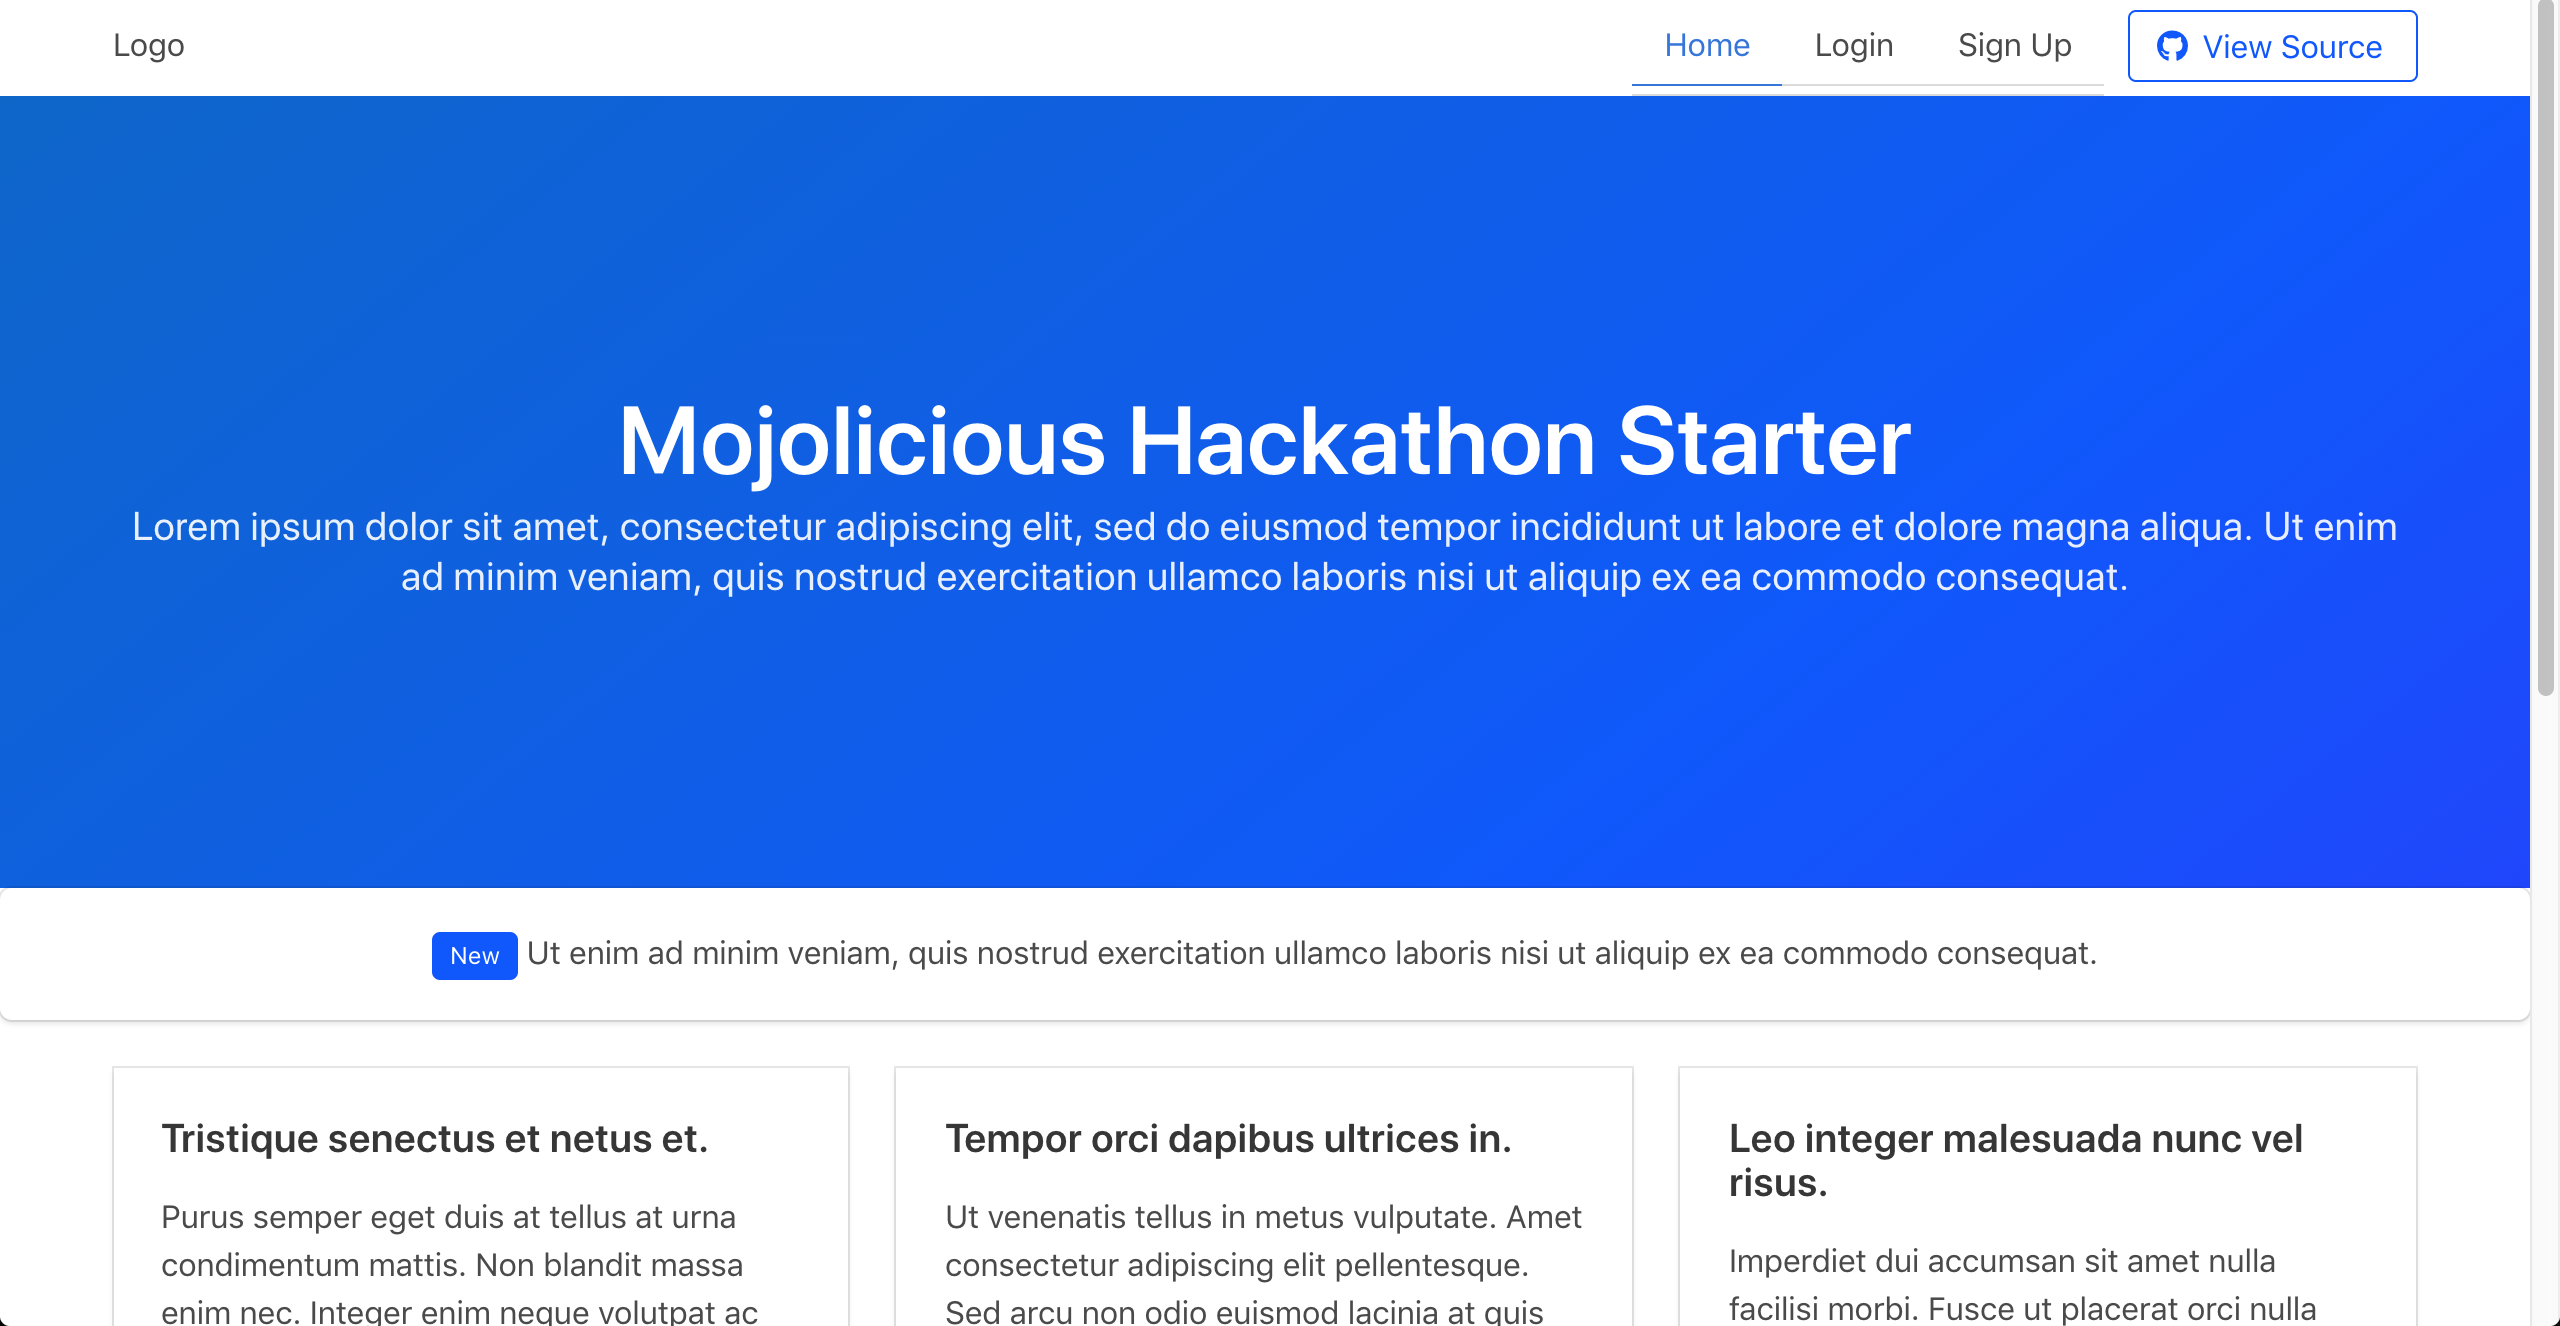
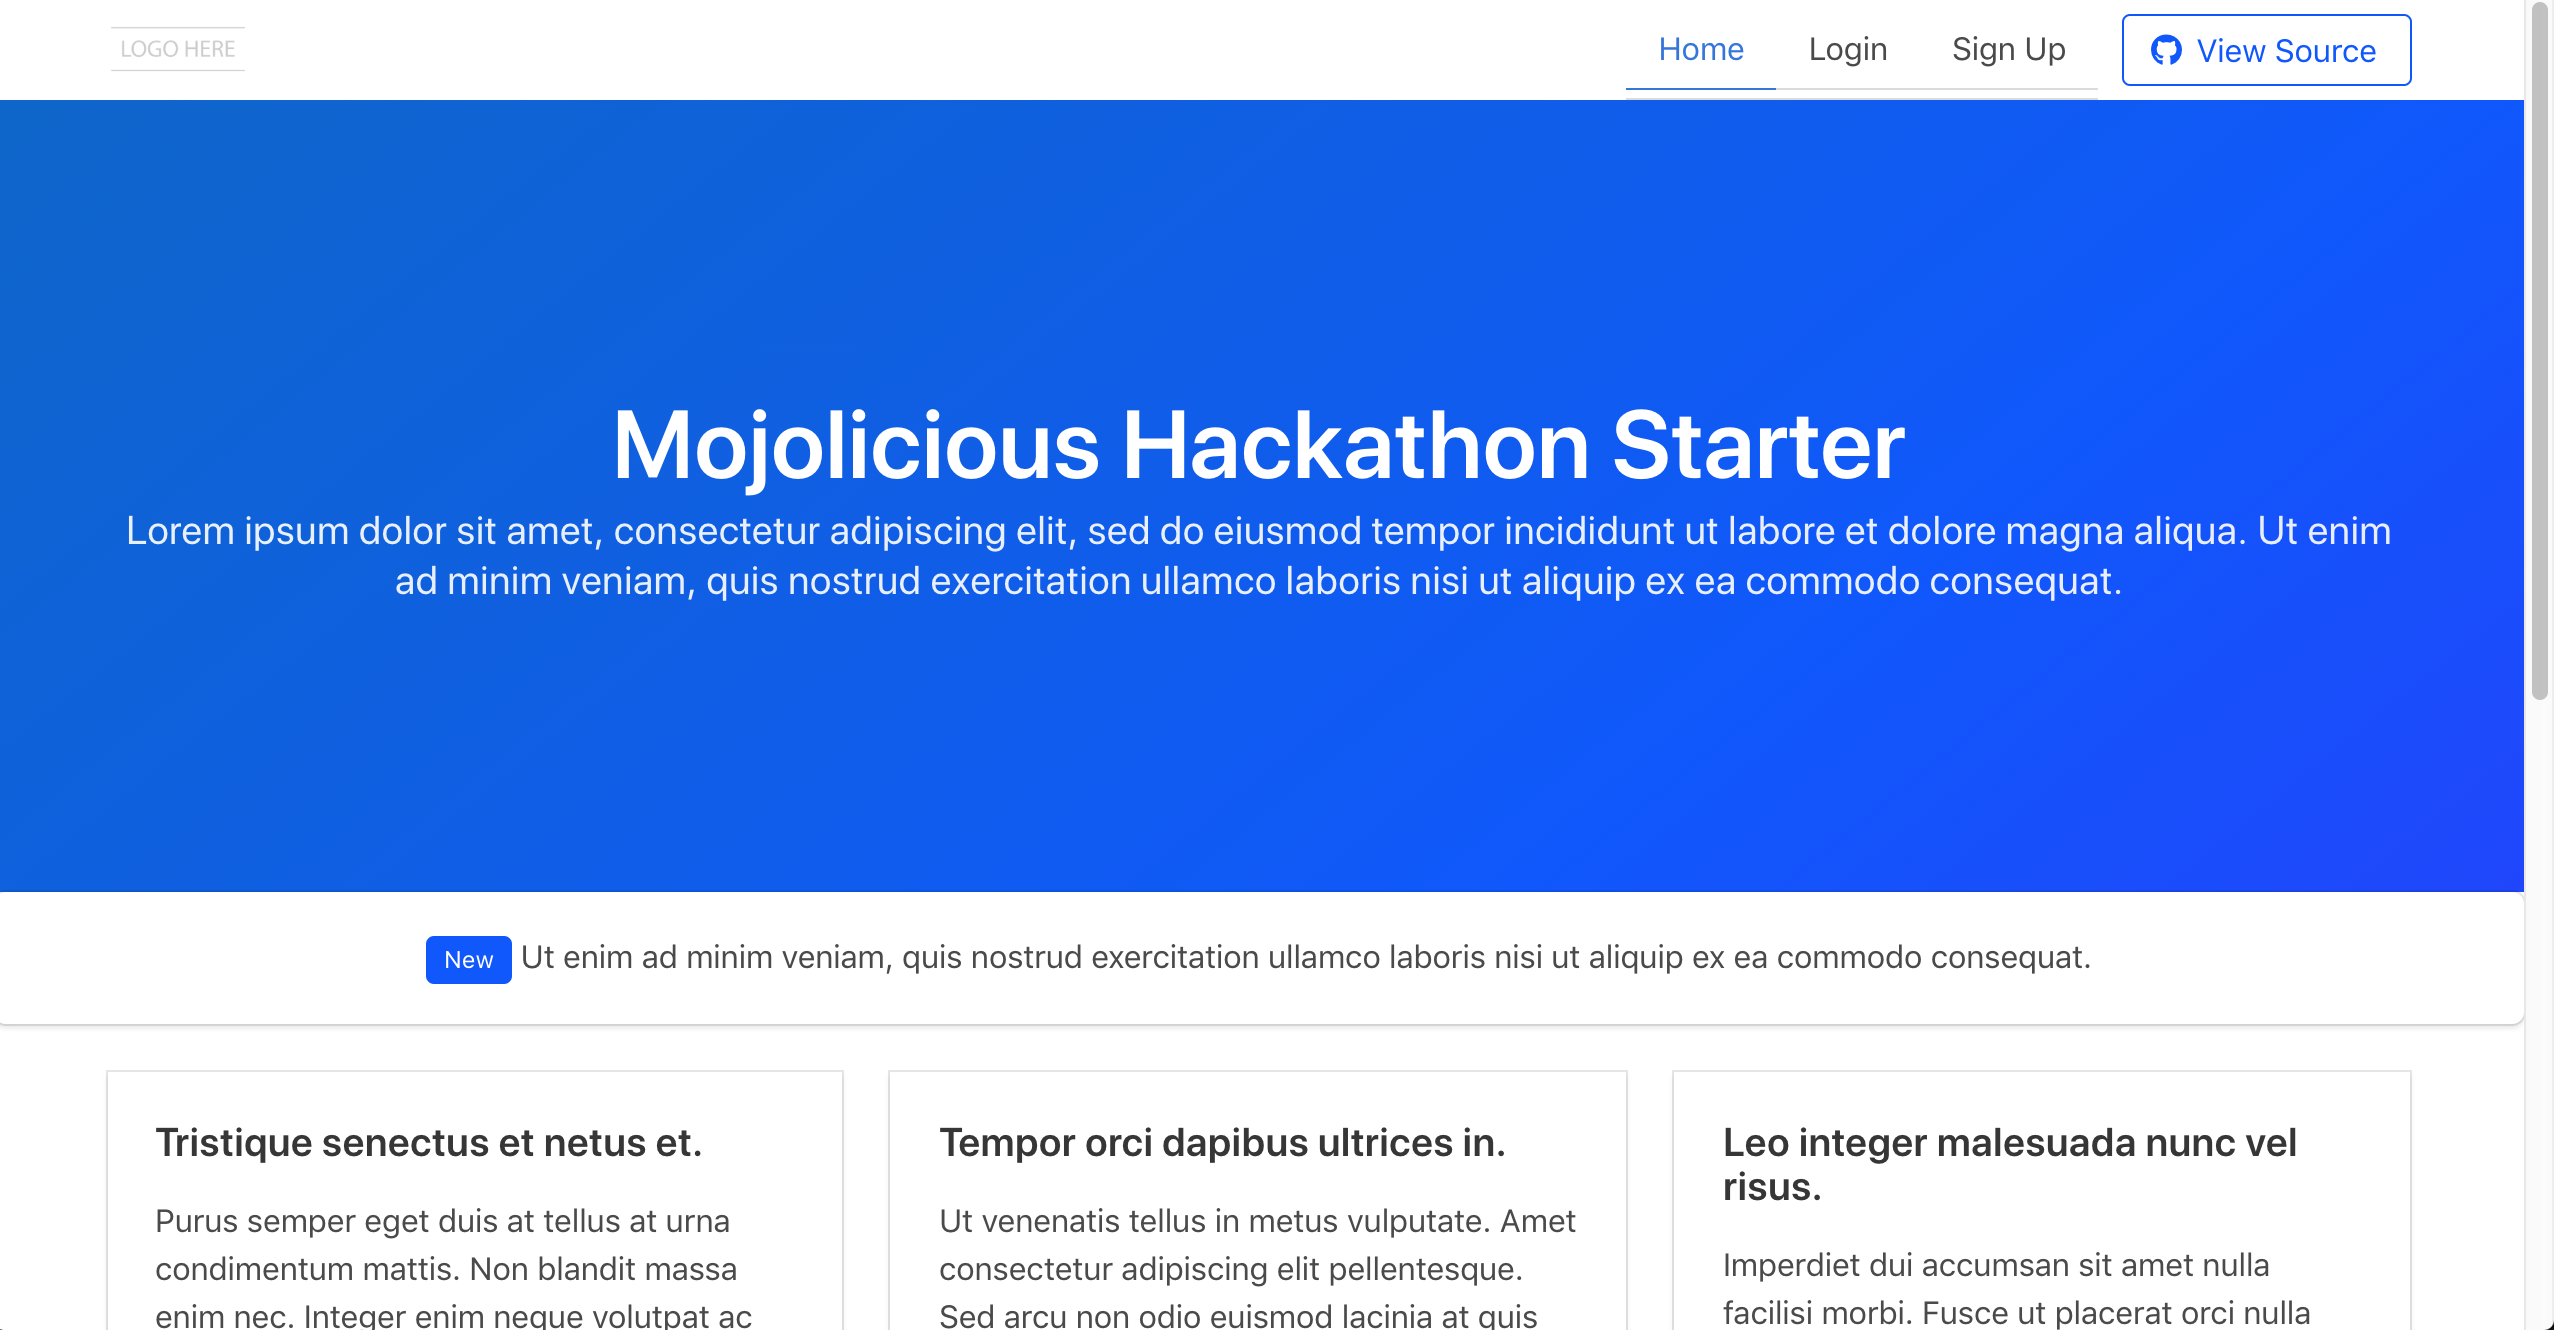
add file loader

diff --git a/webpack.config.js b/webpack.config.js
@@ -13,7 +13,17 @@ const WebpackMd5Hash = require('webpack-md5-hash');
 const config = {
   mode: isDev ? 'development' : 'production',
   module: {
-    rules: []
+    rules: [{
+      test: /\.(png|svg|jpg|gif)$/,
+      use: [
+        {
+          loader: 'file-loader',
+          options: {
+            publicPath: 'asset'
+          }
+        }
+      ]
+    }]
   },
   optimization: {
     minimizer: []

diff --git a/assets/js/components/layout/NavBar.vue b/assets/js/components/layout/NavBar.vue
@@ -3,7 +3,7 @@
     <div class="container">
       <div class="navbar-brand">
         <a class="navbar-item" href="../">
-          Logo
+          <img src="../../../img/logo.png" />
         </a>
         <span :class="{'is-active': openMenu}" @click="openMenu = !openMenu" class="navbar-burger burger" data-target="navbarMenu">
           <span></span>
